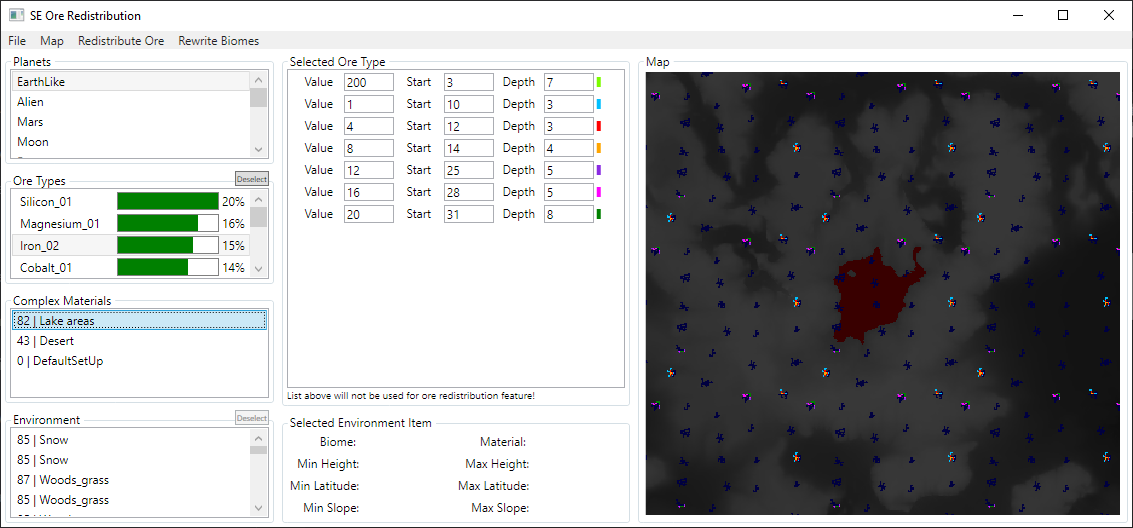
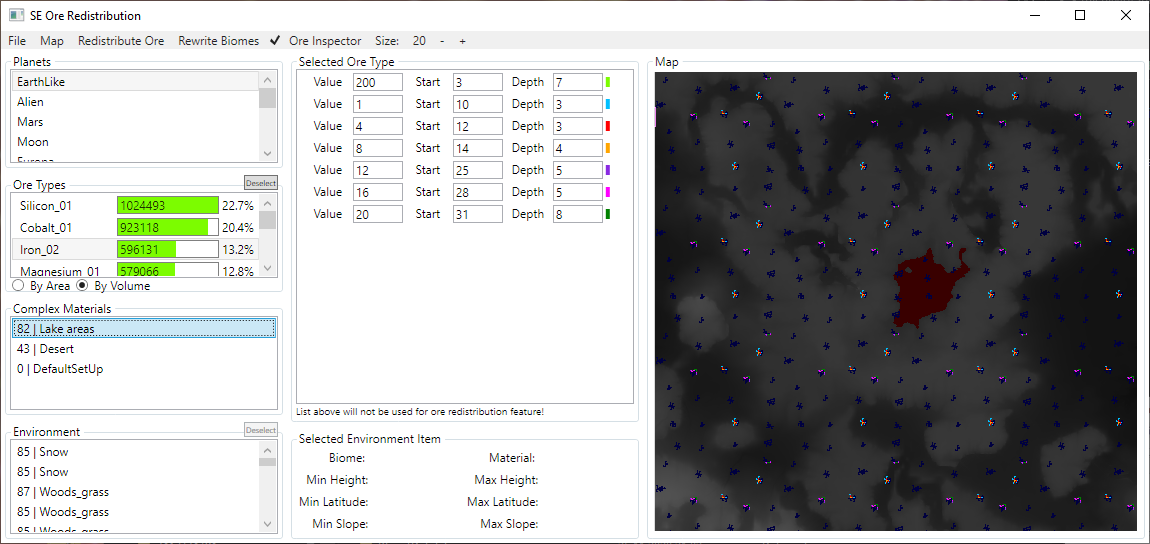
Description and screenshots updated.

diff --git a/README.md b/README.md
@@ -14,12 +14,15 @@ Screenshot of a modded planet:
 
 The program takes a list of ore types to spawn and lets you change some variables to influence the size and depth of the ore veins. I might add additional parameters later. I need balance the probabilities a bit more.
 
-
 ![Screenshot of redistribution setup](Screenshots/Redistribution_Setup.png)
 
-Currently 9-10 different ore depths will be generated and used. The veins contain more ore than in the vanilla game as a compensation for the more hard to find ore.
+Currently 9-10 different ore depths will be generated and used. The veins contain more ore than in the vanilla game as a compensation for the more hard to find ore. The depths and spawn probabilities for each ore type can be edited individually.
 
 ![Screenshot of ore mappings](Screenshots/OreMappings.png)
+
+You can also see a preview of the ore veins on the map by enabling the ore inspector and right clicking on the map.
+
+![Screenshot of Ore Inspector](Screenshots/Ore3D.png)
 
 ## SeAdminHelper
 
